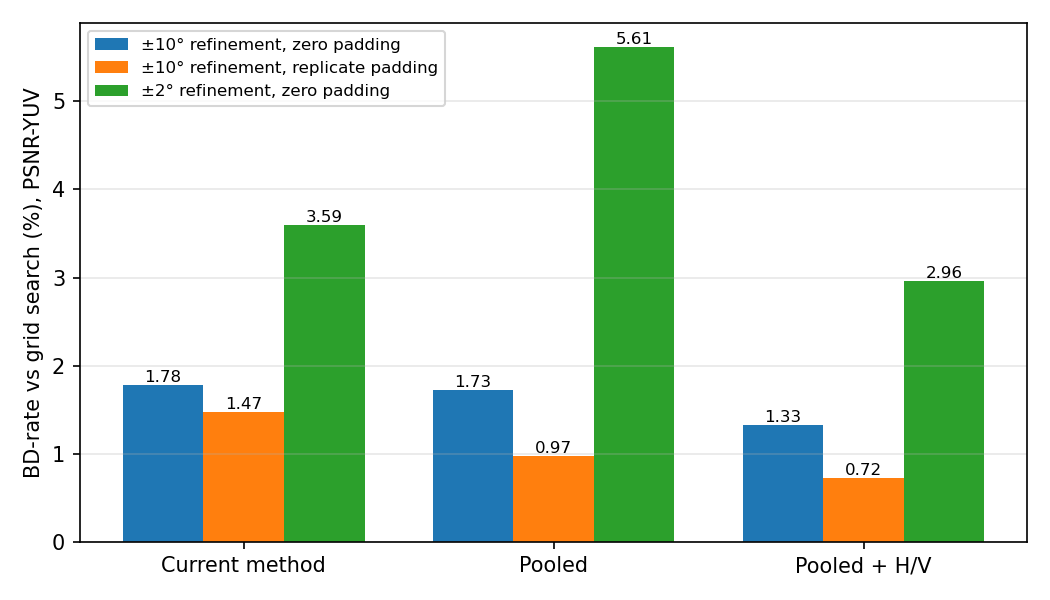
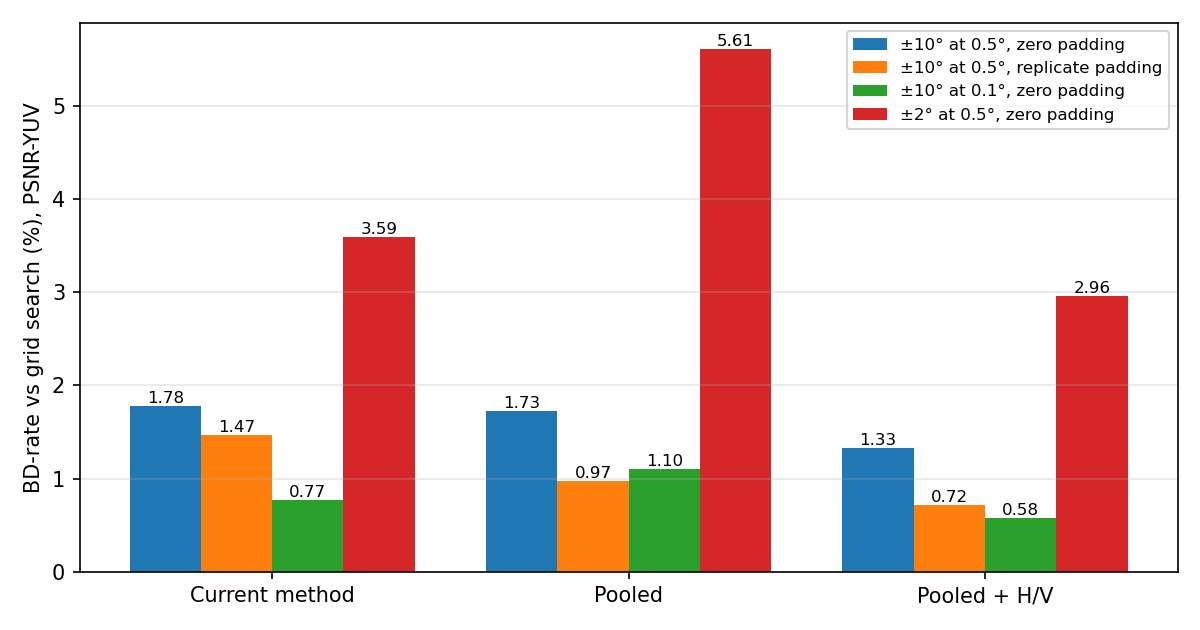
docs: Add the fine refinement-step (0.1 deg) results to the report
Refining the +-10 deg window in 0.1 deg steps instead of 0.5 deg lowers
every method's BD-rate loss against grid search (current 1.78 -> 0.77%,
pooled 1.73 -> 1.10%, pooled + H/V 1.33 -> 0.58%) without widening the
gaps between estimators. Add the configuration to the BD-rate figure.

Changed region(s): [[0.0, 0.03, 1.0, 0.96]]

diff --git a/scripts/report_figures.py b/scripts/report_figures.py
@@ -220,19 +220,21 @@ def bdrate_figure(runs: Path, out: Path) -> None:
                           [p["bpp"] for p in test], [p["psnr_yuv"] for p in test])
 
     methods = ["legacy", "pooled", "pooled_hv"]
-    configs = [("", r"$\pm10^\circ$ refinement, zero padding"),
-               ("@rep", r"$\pm10^\circ$ refinement, replicate padding"),
-               ("@r2", r"$\pm2^\circ$ refinement, zero padding")]
+    configs = [("", r"$\pm10^\circ$ at $0.5^\circ$, zero padding"),
+               ("@rep", r"$\pm10^\circ$ at $0.5^\circ$, replicate padding"),
+               ("@f01", r"$\pm10^\circ$ at $0.1^\circ$, zero padding"),
+               ("@r2", r"$\pm2^\circ$ at $0.5^\circ$, zero padding")]
+    configs = [c for c in configs if all((m + c[0]) in points for m in methods)]
     values = [[bd(m + tag) for m in methods] for tag, _ in configs]
     groups = ["current", "pooled", "pooledhv"]
 
     plt = _pyplot()
-    fig, ax = plt.subplots(figsize=(7, 4))
+    fig, ax = plt.subplots(figsize=(8, 4.2))
     x = np.arange(len(methods))
-    width = 0.26
+    width = 0.8 / len(configs)
     for i, ((_, label), vals) in enumerate(zip(configs, values)):
-        bars = ax.bar(x + (i - 1) * width, vals, width,
-                      label=label.replace(r"$\pm", "±").replace(r"^\circ$", "°"))
+        plain = label.replace("$", "").replace(r"\pm", "±").replace(r"^\circ", "°")
+        bars = ax.bar(x + (i - (len(configs) - 1) / 2) * width, vals, width, label=plain)
         ax.bar_label(bars, fmt="%.2f", fontsize=8)
     ax.set_xticks(x)
     ax.set_xticklabels(["Current method", "Pooled", "Pooled + H/V"])

diff --git a/docs/figures/bdrate_after_fixes.tex b/docs/figures/bdrate_after_fixes.tex
@@ -2,10 +2,12 @@
 \begin{tikzpicture}
 \begin{axis}[width=\linewidth, height=0.6\linewidth, ybar, bar width=9pt, ylabel={BD-rate vs grid search (\%), PSNR-YUV}, symbolic x coords={current,pooled,pooledhv}, xtick=data, xticklabels={Current method, Pooled, Pooled + H/V}, nodes near coords, nodes near coords style={font=\scriptsize, /pgf/number format/fixed, /pgf/number format/precision=2}, ymin=0, enlarge x limits=0.25, legend pos=north west, legend cell align=left, legend style={font=\footnotesize}, ymajorgrids]
 \addplot coordinates {(current,1.77508) (pooled,1.72667) (pooledhv,1.32674)};
-\addlegendentry{$\pm10^\circ$ refinement, zero padding}
+\addlegendentry{$\pm10^\circ$ at $0.5^\circ$, zero padding}
 \addplot coordinates {(current,1.469) (pooled,0.970013) (pooledhv,0.722943)};
-\addlegendentry{$\pm10^\circ$ refinement, replicate padding}
+\addlegendentry{$\pm10^\circ$ at $0.5^\circ$, replicate padding}
+\addplot coordinates {(current,0.770545) (pooled,1.10425) (pooledhv,0.577237)};
+\addlegendentry{$\pm10^\circ$ at $0.1^\circ$, zero padding}
 \addplot coordinates {(current,3.593) (pooled,5.61255) (pooledhv,2.95746)};
-\addlegendentry{$\pm2^\circ$ refinement, zero padding}
+\addlegendentry{$\pm2^\circ$ at $0.5^\circ$, zero padding}
 \end{axis}
 \end{tikzpicture}

diff --git a/docs/structure_tensor_investigation.md b/docs/structure_tensor_investigation.md
@@ -317,17 +317,19 @@ The reference was re-encoded with the same encoder.
 
 ### 8.1 Coding performance
 
-BD-rate against the grid search, PSNR-YUV:
+BD-rate against the grid search, PSNR-YUV. Refinement is given as range and step; the default
+is ±10° at 0.5°.
 
-| Method | ±10°, zero padding | ±10°, replicate padding | ±2°, zero padding |
-|---|---|---|---|
-| Current method | +1.78% | +1.47% | +3.59% |
-| Pooled | +1.73% | +0.97% | +5.61% |
-| Pooled + H/V | +1.33% | **+0.72%** | +2.96% |
+| Method | ±10° at 0.5°, zero padding | ±10° at 0.5°, replicate padding | ±10° at 0.1°, zero padding | ±2° at 0.5°, zero padding |
+|---|---|---|---|---|
+| Current method | +1.78% | +1.47% | +0.77% | +3.59% |
+| Pooled | +1.73% | +0.97% | +1.10% | +5.61% |
+| Pooled + H/V | +1.33% | +0.72% | **+0.58%** | +2.96% |
 
 With PSNR-Y the ordering at ±10° with zero padding is the same (current 1.81%, pooled 2.04%,
 pooled + H/V 1.05%), but replicate padding helps pooled (2.04% → 1.49%) and slightly hurts
-pooled + H/V (1.05% → 1.14%).
+pooled + H/V (1.05% → 1.14%). With the 0.1° step, PSNR-Y gives current 1.08%, pooled 1.59% and
+pooled + H/V 0.76%.
 
 ![BD-rate after the fixes](figures/bdrate_after_fixes.png)
 
@@ -338,10 +340,20 @@ pooled + H/V (1.05% → 1.14%).
   and pooled matches the current method.
 - **Pooled + H/V is the best structure-tensor search in every configuration.** It needs no 4D
   eigendecomposition and no log-det evaluation.
-- **The refinement range hides estimator quality.** Narrowing the refinement from ±10° to ±2°
-  doubles the current method's loss (1.78% → 3.59%) and more than triples pooled's
-  (1.73% → 5.61%). Pooled + H/V degrades least (1.33% → 2.96%). The ±10° window makes the
-  estimators look closer than they are, so it understates the value of better estimates.
+- **The refinement range hides gross estimator errors.** Narrowing the refinement from ±10° to
+  ±2° doubles the current method's loss (1.78% → 3.59%) and more than triples pooled's
+  (1.73% → 5.61%). Pooled + H/V degrades least (1.33% → 2.96%). A wide window rescues
+  estimates that are several degrees off.
+- **The refinement step costs every method about as much as the estimator choice.** Refining
+  the same ±10° window in 0.1° steps (the angle coding precision) instead of 0.5° cuts the loss
+  of the current method from 1.78% to 0.77%, of pooled from 1.73% to 1.10% and of
+  pooled + H/V from 1.33% to 0.58%. The 0.5° lattice is anchored at the estimate, so every
+  method can end up to 0.25° from the best angle it would otherwise find. The finer step does
+  not make the estimator differences larger: pooled + H/V's lead over the current method shrinks
+  from 0.45 to 0.19 points, and single-angle pooled falls behind the current method (0.33
+  points), presumably because with a fine step the remaining loss comes from blocks whose
+  estimate lands in the wrong basin, where testing several angles helps. The fine step costs
+  about as many RD evaluations per block as the grid search itself (201 against about 167).
 - **Replicate padding helps a little** on PSNR-YUV for all three methods (0.3 to 0.8 points).
   It introduced no visible errors here, but this crop uses no pre-slant, and earlier problems
   with replicate padding may have involved pre-slant's invalid corners.
